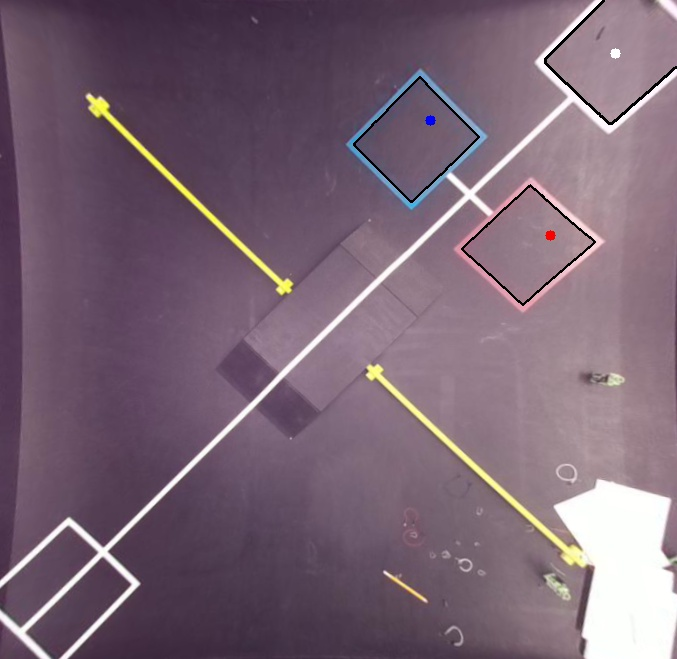
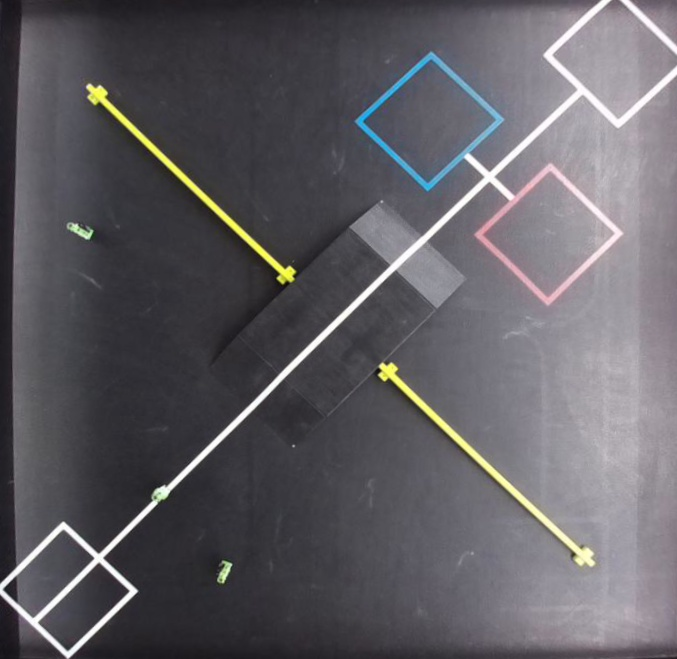
integration of all camera functions into one file

diff --git a/camera/video_capture.py b/camera/video_capture.py
@@ -95,7 +95,7 @@ def isolateCenter(img):
 
 	return warped
 
-def findContours(img):
+def findGoals(img):
 	#img = undistort(img)
 	img = isolateCenter(img)
 
@@ -114,7 +114,6 @@ def findContours(img):
 	whiteGoal = [Infinity,0]
 
 	max = 0
-	cont = []
 
 	for i in range(len(contours)):
 		if heirachy[0][i][2] > max:
@@ -149,6 +148,82 @@ def findContours(img):
 	cv2.drawContours(img, blueGoal[1], -1, (0,0,0), 2)
 	cv2.drawContours(img, redGoal[1], -1, (0,0,0), 2)
 	cv2.drawContours(img, whiteGoal[1], -1, (0,0,0), 2)
+
+	return img
+
+def ContSortFunct(contour):
+	area = cv2.contourArea(contour)
+
+	perim = cv2.arcLength(contour,True)
+	if contour[0][0][0] > contour[0][0][1] or (contour[0][0][0] < 75 and contour[0][0][1] > 575):
+		return Infinity
+	return area
+
+def findDummies(img):
+	img = isolateCenter(img)
+	imgB = img.copy()
+	contrast = 64 * 4
+	f = 131*(contrast + 127)/(127*(131-contrast))
+
+	imgB[:,:,0] = 0
+	imgB[:,:,2] = 0
+
+	imgB = cv2.addWeighted(imgB, f, imgB, 0, 127 * (1-f))
+
+
+	imgB = cv2.cvtColor(imgB,cv2.COLOR_BGR2GRAY)
+
+
+
+	imgBlur = imgB
+	imgBlur = cv2.GaussianBlur(imgB , (7,7) , 0)
+
+
+	imgEdge = cv2.Canny(image = imgBlur, threshold1=0, threshold2=255)
+
+	contours, heirachy = cv2.findContours(imgEdge,cv2.RETR_TREE,cv2.CHAIN_APPROX_NONE)
+
+	contours = list(contours)
+	contours.sort(key = lambda x: ContSortFunct(x))
+
+	imgB = cv2.cvtColor(imgB , cv2.COLOR_GRAY2BGR)
+
+	cv2.drawContours(imgB , contours[:3] , -1 , (0,255,75) , 2)
+	
+	for i in range(4):
+	 	M = cv2.moments(contours[i])
+	 	if M['m00'] != 0.0:
+			 x_centre = int(M['m10']/M['m00'])
+			 y_centre = int(M['m01']/M['m00'])
+			 centre = (x_centre, y_centre)
+			 img = cv2.circle(img, centre, radius=5, color=(0, 0, 255), thickness=-1)
+
+	return img
+
+def findContours(img):
+	img = isolateCenter(img)
+	imgEdge = img.copy()
+	imgEdge[:,:,0] = 0
+	imgEdge[:,:,2] = 0
+	imgEdge = cv2.cvtColor(imgEdge,cv2.COLOR_BGR2GRAY)
+	imgEdge = cv2.GaussianBlur(img,(3,3),0)
+	imgEdge = cv2.Canny(image=imgEdge,threshold1=0, threshold2=255)
+
+	contours, heirachy = cv2.findContours(imgEdge,cv2.RETR_TREE,cv2.CHAIN_APPROX_NONE)
+
+	img = cv2.drawContours(img, contours,-1, (0,255,175),2)
+
+	for i in range(len(contours)):
+		if contours[i][0][0][1] > contours[i][0][0][0]:
+			(x,y) , r = cv2.minEnclosingCircle(contours[i])
+			center = (int(x),int(y))
+
+			perim = cv2.arcLength(contours[i],True)
+
+			radius = int((perim)/r)
+
+			cv2.circle(img,center,radius,(255,0,0),2)
+		#cv2.circle(img,center,perim,(0,0,255),1)
 
 	return img
 
